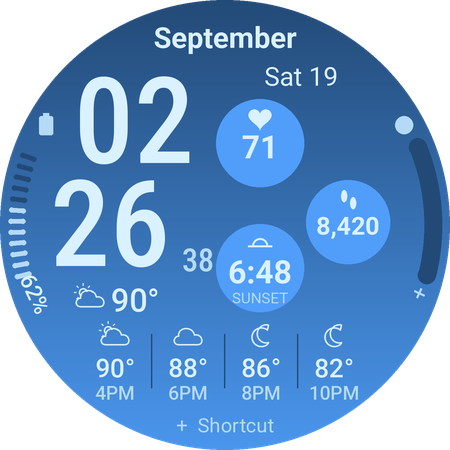
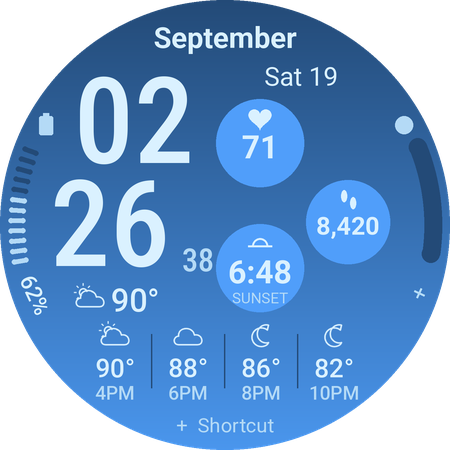
Keep gauge endpoints clear of edge captions and assert weather dispatch

Changed region(s): [[0.0, 0.3111, 0.1244, 0.7156], [0.9022, 0.56, 0.9956, 0.6533]]

diff --git a/tools/generate_watchface.py b/tools/generate_watchface.py
@@ -208,27 +208,27 @@ def edge_slot(parent, sid, name, left=False):
         if left:
             # Twelve separate rounded ticks, filled from the bottom upward.
             for i in range(12):
-                a=256+i*3
+                a=260+i*2.8
                 edge_tick(p,center,a,C[5],(w,h))
                 if ratio:
                     _, lit=condition(p,f'slot_{sid}_{kind.lower()}_tick_{i}',f'{ratio} >= {(i+1)/12:.8f}')
                     edge_tick(lit,center,a,C[6],(w,h))
         else:
-            arc(p,*center,416,68,104,C[5],18,viewport=(w,h))
+            arc(p,*center,416,68,98,C[5],18,viewport=(w,h))
             if ratio:
                 # Hide the foreground at zero, avoiding a misleading round-cap dot.
                 _, positive=condition(p,f'slot_{sid}_{kind.lower()}_positive',f'{ratio} > 0')
-                arc(positive,*center,416,68,104,C[6],18,f'68 + 36 * {ratio}',viewport=(w,h))
+                arc(positive,*center,416,68,98,C[6],18,f'68 + 30 * {ratio}',viewport=(w,h))
             elif kind=='SHORT_TEXT':
                 # Decorative accent for a text-only provider, not a progress value.
-                arc(p,*center,416,68,104,C[6],18,viewport=(w,h))
+                arc(p,*center,416,68,98,C[6],18,viewport=(w,h))
         ix,iy=(34,8) if left else (0,8)
         if kind=='EMPTY':
             ellipse(p,ix+3,iy+3,18,18,C[3])
         else:
             image(p,ix,iy,24,24,'[COMPLICATION.MONOCHROMATIC_IMAGE]',C[6])
         # The short rotated captions follow the reference without arc clip masks.
-        tx,ty=(10,176) if left else (3,176)
+        tx,ty=(10,177) if left else (3,176)
         angle=65 if left else -65
         expr='[COMPLICATION.TEXT]'
         if kind=='RANGED_VALUE':

diff --git a/tests/test_watchface.py b/tests/test_watchface.py
@@ -80,6 +80,23 @@ class WatchFaceTests(unittest.TestCase):
                         self.assertLess(math.hypot(px+float(slot.get('x'))-225,
                                                    py+float(slot.get('y'))-225),225)
 
+    def test_edge_gauges_leave_space_above_rotated_captions(self):
+        for sid in ['4','5']:
+            slot=self.face.find(f'.//ComplicationSlot[@slotId="{sid}"]')
+            lowest_drawn_pixel=0
+            for line in slot.findall('.//Line'):
+                lowest_drawn_pixel=max(lowest_drawn_pixel,
+                    max(float(line.get('startY')),float(line.get('endY')))+float(line.find('Stroke').get('thickness'))/2)
+            for arc in slot.findall('.//Arc'):
+                lowest_drawn_pixel=max(lowest_drawn_pixel,float(arc.get('centerY'))-
+                    float(arc.get('height'))/2*math.cos(math.radians(float(arc.get('endAngle'))))+
+                    float(arc.find('Stroke').get('thickness'))/2)
+            for label in slot.findall('.//PartText'):
+                y,w,h=map(float,(label.get(k) for k in ['y','width','height']))
+                a=math.radians(float(label.get('angle')))
+                highest_text_pixel=y+h/2-abs(math.sin(a))*w/2-abs(math.cos(a))*h/2
+                self.assertGreaterEqual(highest_text_pixel-lowest_drawn_pixel,2)
+
     def test_weather_taps_do_not_cover_complications(self):
         weather=self.face.find(".//Group[@name='weather']")
         targets=[p for p in weather.findall('PartDraw') if p.find('Launch') is not None]

diff --git a/tools/capture_editor.py b/tools/capture_editor.py
@@ -165,3 +165,6 @@ if len(results['slot_captures']) != 6 or not all(s['provider_chooser_visible'] f
     raise SystemExit('Not all six native provider choosers were verified; inspect editor-results.json.')
 if not results.get('edge_alarm_capture'):
     raise SystemExit('Assigned edge text was not captured; inspect editor-results.json.')
+
+if len(results.get('weather_taps',[])) != 2 or not all(t['package_launch_evidence'] for t in results['weather_taps']):
+    raise SystemExit('Both weather launch requests were not verified; inspect weather tap logs.')
